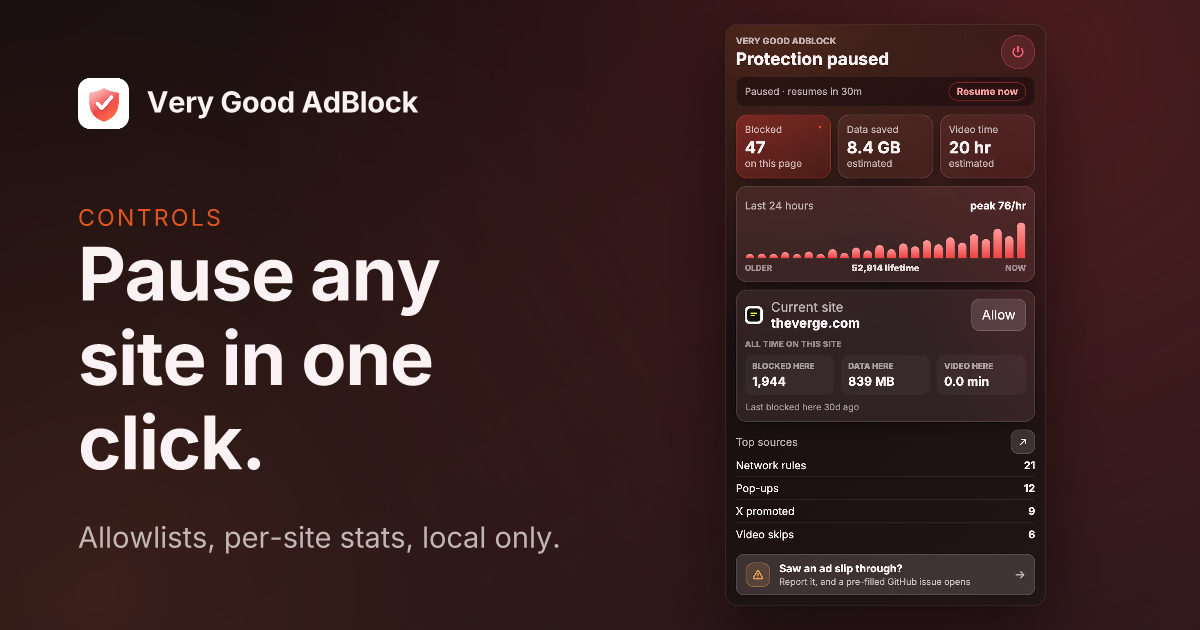
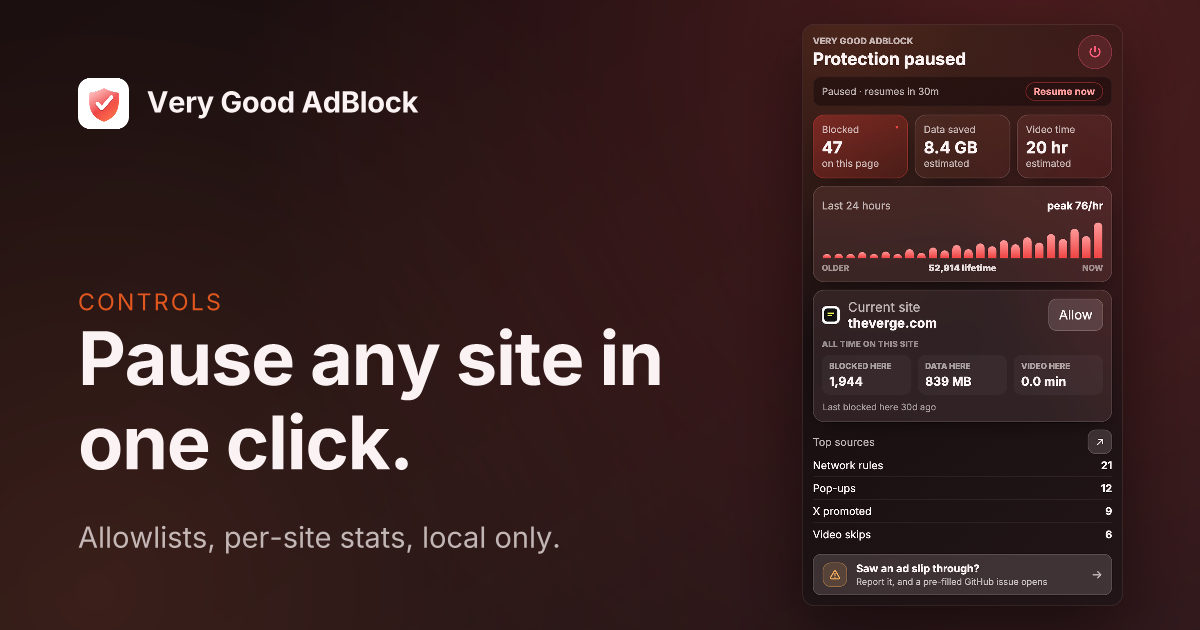
fix(social): take the card layout fix and stop re-deriving the measure
ts-images 0.2.7 sizes the product shot off the height it can use and
right-aligns it, so the shot ends one margin from the card's edge instead of
floating mid-panel with a band of background beside it, and the headline's
measure grows from 492px to 655px on the pages with a tall popup.

The validator asked the renderer for that measure rather than spelling out
`width * 0.54 - margin * 2` again. That arithmetic was correct when it was
written and wrong the moment the layout moved — it would have gone on rejecting
copy that now fits, which is the failure mode that looks like diligence.

@stacksjs/image 0.70.246 raises its own ts-images floor to ^0.2.7, so the fix
reaches a project rather than sitting behind a range an old lockfile is free to
keep satisfying.

diff --git a/resources/scripts/validate-social-copy.ts b/resources/scripts/validate-social-copy.ts
@@ -14,16 +14,17 @@
  */
 import { readFile } from 'node:fs/promises'
 import process from 'node:process'
-import { layoutText, loadFont } from 'ts-images'
+import { decode, layoutText, loadFont, socialCardMetrics } from 'ts-images'
 import config from '../../config/images'
 
-// Mirrors the renderer's own arithmetic: the margin is 6.5% of the width, the
-// title 6.2%, the subtitle 2.45%, and a card with a product shot gives its
-// text `textWidth` (0.54 by default) of the canvas minus both margins.
+// The column is asked for, not re-derived. It used to be spelled out here as
+// `width * 0.54 - margin * 2`, which was exactly right until the renderer
+// stopped reserving a fixed column and started sizing the shot off its own
+// height — at which point this would have kept rejecting copy that now fits.
+// It also varies per page: a tall popup leaves the headline more room than a
+// wide dashboard panel does.
 const WIDTH = 1200
-const MARGIN = Math.round(WIDTH * 0.065)
-const TEXT_WIDTH = (config.social?.device as { textWidth?: number } | undefined)?.textWidth ?? 0.54
-const BOX = WIDTH * TEXT_WIDTH - MARGIN * 2
+const HEIGHT = 630
 const TITLE_SIZE = Math.round(WIDTH * 0.062)
 const SUBTITLE_SIZE = Math.round(WIDTH * 0.0245)
 const TITLE_LINES = 3
@@ -41,12 +42,25 @@ if (!config.fonts?.title)
 const titleFont = await font(config.fonts.title)
 const bodyFont = config.fonts.body ? await font(config.fonts.body) : titleFont
 
-function lines(text: string, options: { font: ReturnType<typeof loadFont>, size: number, tracking?: number }): string[] {
+/** The measure a page's copy actually gets, given the shot beside it. */
+async function columnFor(shot: string | undefined): Promise<number> {
+  if (!shot)
+    return socialCardMetrics({ width: WIDTH, height: HEIGHT }).textWidth
+
+  const image = await decode(new Uint8Array(await readFile(shot)))
+  return socialCardMetrics({
+    width: WIDTH,
+    height: HEIGHT,
+    foreground: { aspect: image.width / image.height, scale: config.social?.device?.scale },
+  }).textWidth
+}
+
+function lines(text: string, box: number, options: { font: ReturnType<typeof loadFont>, size: number, tracking?: number }): string[] {
   return layoutText({
     text,
     font: options.font,
     size: options.size,
-    maxWidth: BOX,
+    maxWidth: box,
     lineHeight: 1.14,
     letterSpacing: options.tracking,
     // Deliberately unbounded: the question is how many lines the string wants,
@@ -57,25 +71,31 @@ function lines(text: string, options: { font: ReturnType<typeof loadFont>, size:
 
 const failures: string[] = []
 
+let narrowest = Number.POSITIVE_INFINITY
+
 for (const page of config.social?.pages ?? []) {
-  const title = lines(page.title, { font: titleFont, size: TITLE_SIZE, tracking: -0.018 })
+  const box = await columnFor(page.foreground ?? config.social?.foreground)
+  narrowest = Math.min(narrowest, box)
+
+  const title = lines(page.title, box, { font: titleFont, size: TITLE_SIZE, tracking: -0.018 })
   if (title.length > TITLE_LINES)
     failures.push(`${page.path} title needs ${title.length} lines, ${TITLE_LINES} render: "${title.slice(0, TITLE_LINES).join(' ')}" (dropped "${title.slice(TITLE_LINES).join(' ')}")`)
 
   if (!page.subtitle)
     continue
 
-  const subtitle = lines(page.subtitle, { font: bodyFont, size: SUBTITLE_SIZE })
+  const subtitle = lines(page.subtitle, box, { font: bodyFont, size: SUBTITLE_SIZE })
   if (subtitle.length > SUBTITLE_LINES)
     failures.push(`${page.path} subtitle needs ${subtitle.length} lines, ${SUBTITLE_LINES} renders: "${subtitle.slice(0, SUBTITLE_LINES).join(' ')}" (dropped "${subtitle.slice(SUBTITLE_LINES).join(' ')}")`)
 }
 
 if (failures.length) {
-  console.error(`Social card copy overflows its ${Math.round(BOX)}px column:\n`)
+  console.error('Social card copy overflows its column:\n')
   for (const failure of failures)
     console.error(`  ${failure}`)
   console.error('\nShorten the strings in config/images.ts.')
   process.exit(1)
 }
 
-console.log(`Social card copy fits: ${config.social?.pages?.length ?? 0} pages measured against a ${Math.round(BOX)}px column.`)
+const measured = config.social?.pages?.length ?? 0
+console.log(`Social card copy fits: ${measured} page(s), narrowest column ${Number.isFinite(narrowest) ? Math.round(narrowest) : 0}px.`)
